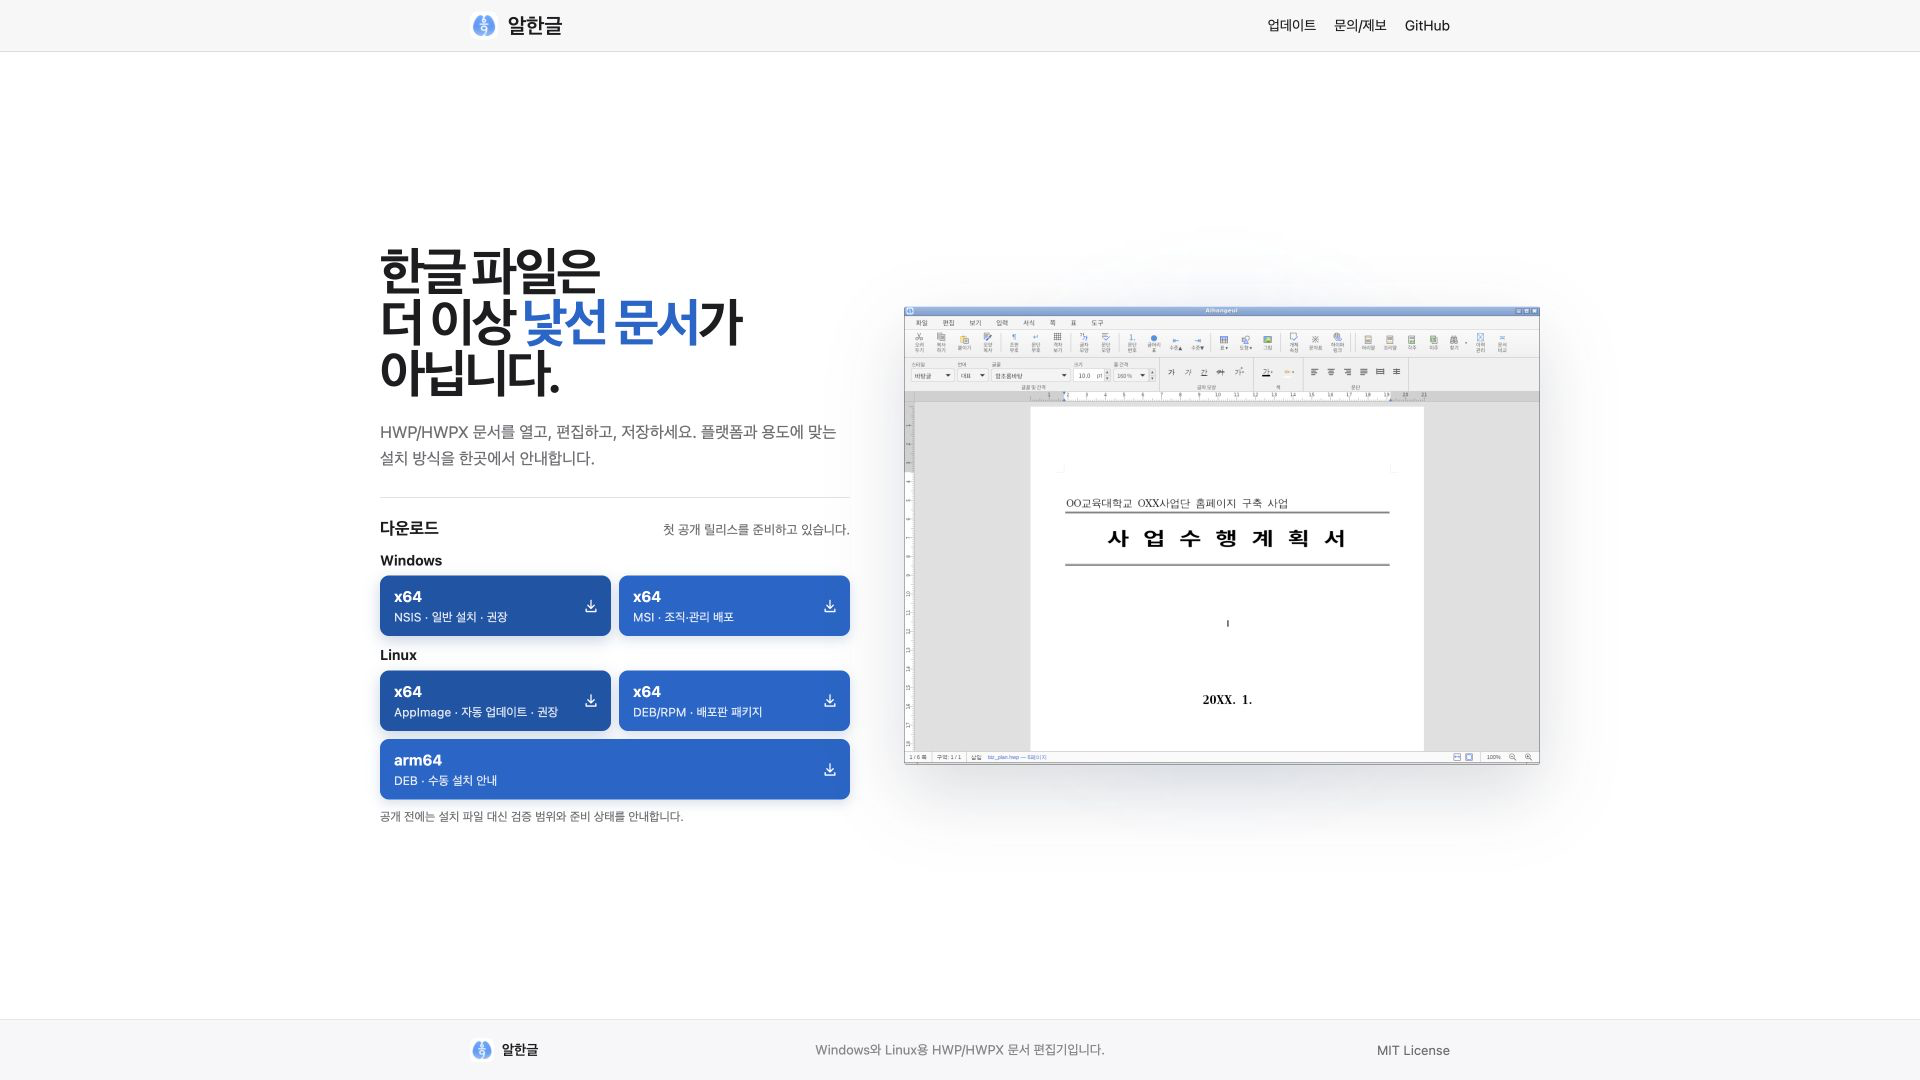
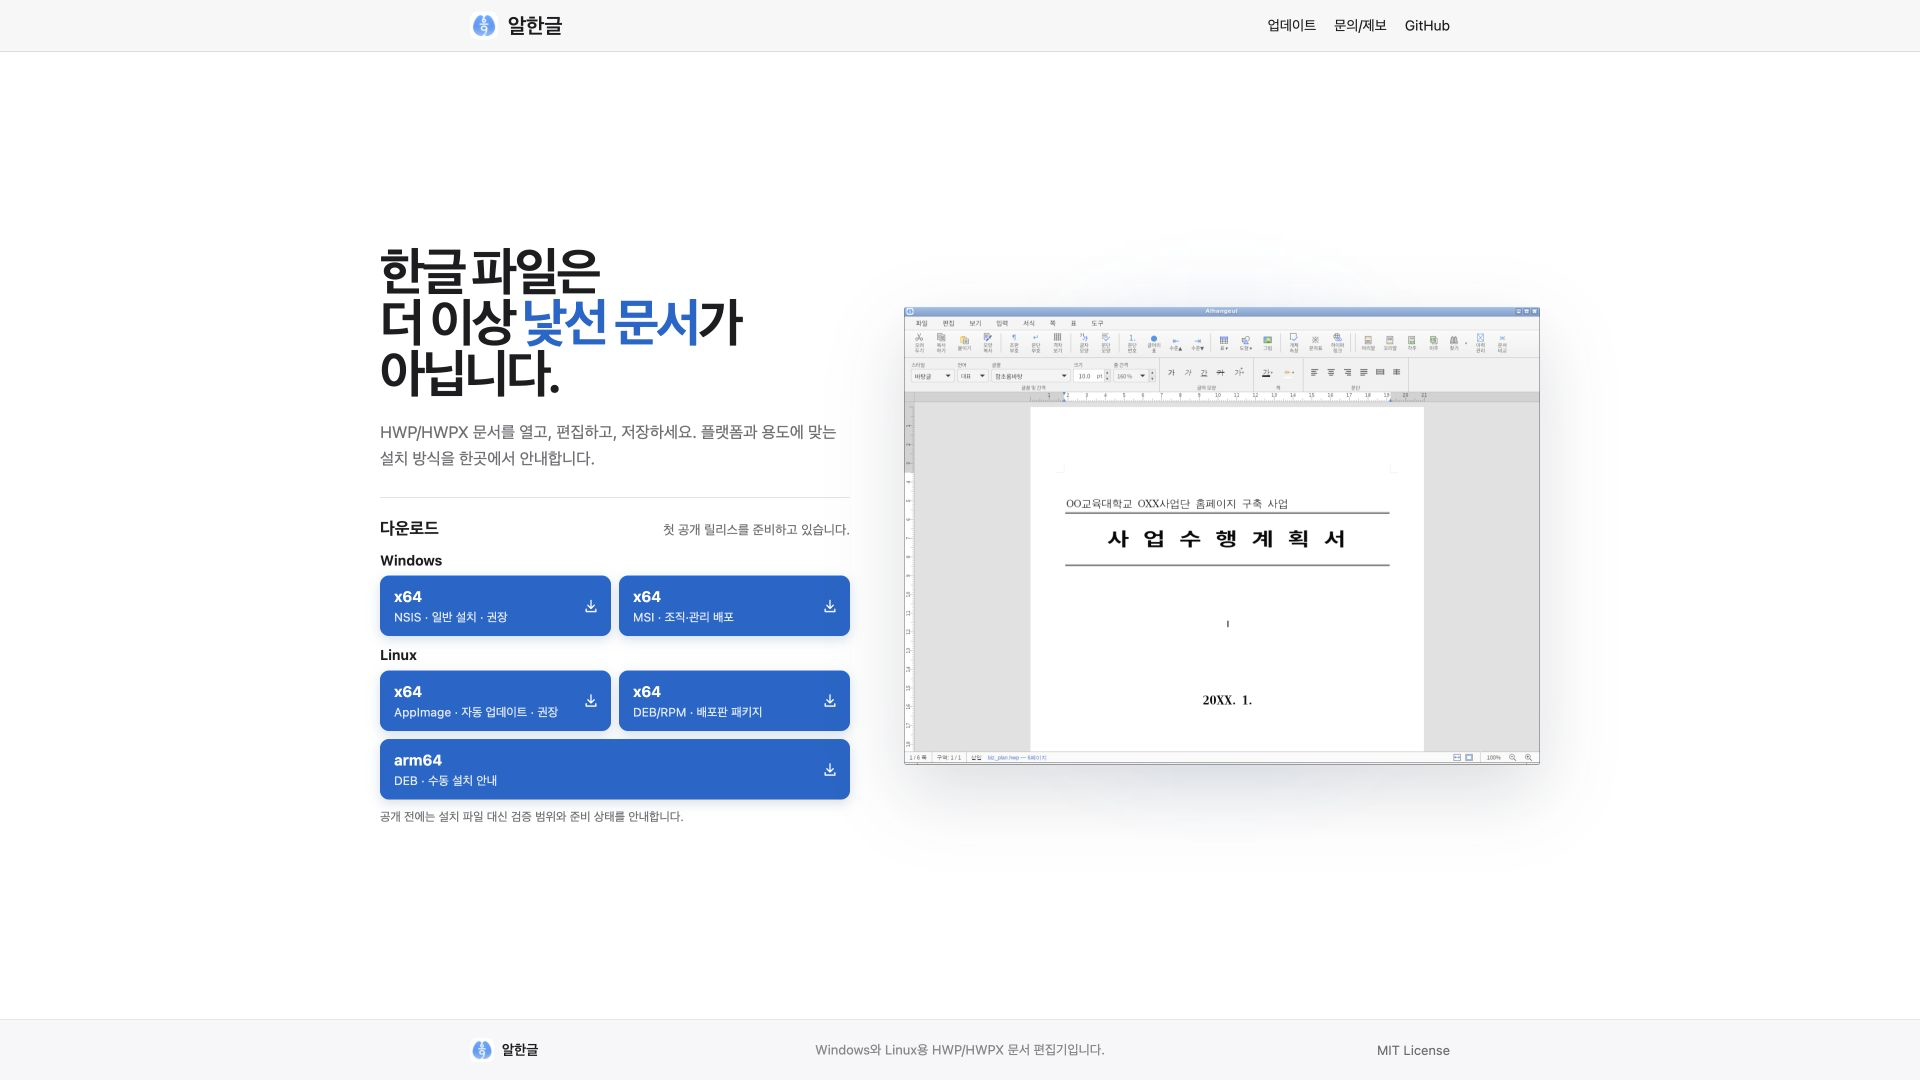
Task #45 [Stage 3.11]: 홈 다운로드 색상 통일

Changed region(s): [[0.1875, 0.5194, 0.3438, 0.7028], [0.5625, 0.4583, 0.6875, 0.5194]]

diff --git a/site/styles.css b/site/styles.css
@@ -52,8 +52,6 @@ button { font: inherit; }
 .install-link { position: relative; display: flex; min-height: 58px; flex-direction: column; justify-content: center; gap: 3px; padding: 10px 36px 10px 13px; border: 1px solid var(--blue); border-radius: 9px; background: var(--blue); color: white; box-shadow: 0 4px 12px rgba(0, 72, 145, 0.18); text-decoration: none; transition: border-color var(--quick) var(--ease), background var(--quick) var(--ease), box-shadow var(--quick) var(--ease), transform 120ms var(--ease); }
 .install-link:hover { border-color: var(--blue-dark); background: var(--blue-dark); box-shadow: 0 7px 18px rgba(0, 72, 145, 0.25); transform: translateY(-2px); }
 .install-link:focus-visible { outline-color: white; box-shadow: 0 0 0 4px rgba(0, 102, 204, 0.3); }
-.install-link.accent { border-color: var(--blue-dark); background: var(--blue-dark); box-shadow: 0 5px 15px rgba(0, 72, 145, 0.24); }
-.install-link.accent:hover { border-color: #004487; background: #004487; }
 .install-link.wide { grid-column: 1 / -1; }
 .install-link strong { font-size: 15px; font-weight: 650; line-height: 1.3; }
 .install-link span { color: rgba(255, 255, 255, 0.86); font-size: 12px; line-height: 1.35; }

diff --git a/site/feedback/index.html b/site/feedback/index.html
@@ -10,7 +10,7 @@
         <meta property="og:image" content="https://postmelee.github.io/alhangeul-tauri/assets/og-main.png" />
         <link rel="canonical" href="https://postmelee.github.io/alhangeul-tauri/feedback/" />
         <link rel="icon" href="../../assets/logo/favicon.ico" />
-        <link rel="stylesheet" href="../styles.css?v=45-3-10" />
+        <link rel="stylesheet" href="../styles.css?v=45-3-11" />
         <script src="../script.js" defer></script>
     </head>
     <body data-site-root="../">

diff --git a/site/updates/index.html b/site/updates/index.html
@@ -10,7 +10,7 @@
         <meta property="og:image" content="https://postmelee.github.io/alhangeul-tauri/assets/og-main.png" />
         <link rel="canonical" href="https://postmelee.github.io/alhangeul-tauri/updates/" />
         <link rel="icon" href="../../assets/logo/favicon.ico" />
-        <link rel="stylesheet" href="../styles.css?v=45-3-10" />
+        <link rel="stylesheet" href="../styles.css?v=45-3-11" />
         <script src="../script.js" defer></script>
     </head>
     <body data-site-root="../">

diff --git a/site/index.html b/site/index.html
@@ -16,7 +16,7 @@
         <meta name="twitter:card" content="summary_large_image" />
         <link rel="canonical" href="https://postmelee.github.io/alhangeul-tauri/" />
         <link rel="icon" href="../assets/logo/favicon.ico" />
-        <link rel="stylesheet" href="styles.css?v=45-3-10" />
+        <link rel="stylesheet" href="styles.css?v=45-3-11" />
         <script src="script.js" defer></script>
     </head>
     <body class="home-page" data-site-root="./">

diff --git a/mydocs/orders/20260828.md b/mydocs/orders/20260828.md
@@ -4,5 +4,5 @@
 
 | Issue | 타스크 | 상태 | 비고 |
 |------|--------|------|------|
-| #45 | Windows/Linux 릴리스·업데이트용 GitHub Pages 재구성 | 진행중 | Stage 3.10 홈 제목·다운로드 버튼 위계 보정 완료: 15:12, Stage 4 승인 대기 |
+| #45 | Windows/Linux 릴리스·업데이트용 GitHub Pages 재구성 | 진행중 | Stage 3.11 제목 강조·다운로드 버튼 파란색 통일 완료: 15:19, Stage 4 승인 대기 |
 | #16 | MSI·NSIS·AppImage updater 도입 | 예정 | #45 URL 계약 확정 뒤 task-start 승인 대기 |
